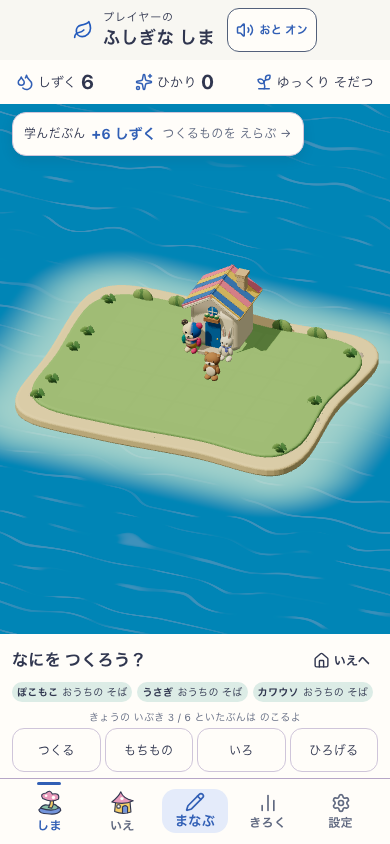
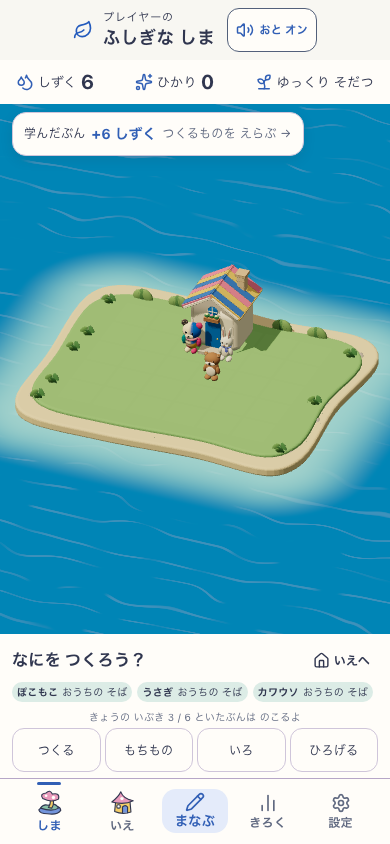
docs(island): refresh live cue evidence

diff --git a/docs/design/2026-09-11-island-learning-cue/README.md b/docs/design/2026-09-11-island-learning-cue/README.md
@@ -12,7 +12,7 @@
 
 ## 検証
 
-`report.json` は本番フラグの production preview を、空の所有物から実際の3問、6しずく、花の購入、リロード、実サービスワーカー制御下のオフライン回答と再起動まで実行した結果である。390×844 と 768×1024 の両方で、通知値、通知からのメニュー遷移、ワールド矩形の不変性、再読込時の重複非表示を確認した。`phone-earned.png` と `tablet-earned.png` は通知が水面上部に出た実画面である。公開 URL へ同じ検査を行った結果は [`live-report.json`](live-report.json)、画像は [`live-phone-earned.png`](live-phone-earned.png) / [`live-tablet-earned.png`](live-tablet-earned.png) に残している。
+`report.json` は本番フラグの production preview を、空の所有物から実際の3問、6しずく、花の購入、リロード、実サービスワーカー制御下のオフライン回答と再起動まで実行した結果である。390×844 と 768×1024 の両方で、通知値、通知からのメニュー遷移、ワールド矩形の不変性、再読込時の重複非表示を確認した。`phone-earned.png` と `tablet-earned.png` は通知が水面上部に出た実画面である。公開 URL（revision `8c09c66580cd34742036f2cad3751c4914675ad8`）へ同じ検査を行った結果は [`live-report.json`](live-report.json)、画像は [`live-phone-earned.png`](live-phone-earned.png) / [`live-tablet-earned.png`](live-tablet-earned.png) に残している。
 
 - **視覚**: 実画面で通知の文字、青いしずく差分、島の全景、下部ナビの可読性を確認。子どもによる意欲評価は未実施（N=0）。
 - **無説明理解・安全**: 「学んだぶん」「つくるものを えらぶ」を任意ボタンで提示し、学習記録・報酬計算・所有物を通知処理から変更しないことを確認。子どもによる無説明理解は未観察。
